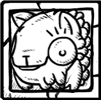
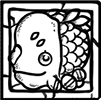
Spellbook UI

diff --git a/Project/Oquonie/Draw.m b/Project/Oquonie/Draw.m
@@ -31,11 +31,32 @@
     
 }
 
+-(void)animateSpellbook
+{
+    NSLog(@"~  DRAW | animateSpellbook");
+    
+    storyboard.interfaceContainer.frame = storyboard.view.frame;
+    storyboard.spellsContainer.frame = CGRectMake((storyboard.view.frame.size.width)/2 - (([position tile:0 :0 :0].size.width)/2), storyboard.view.frame.size.height - 100, ([position tile:0 :0 :0].size.width)/3 * 3, ([position tile:0 :0 :0].size.width)/3);
+    
+    storyboard.spellView1.frame = CGRectMake(0, 0, storyboard.spellsContainer.frame.size.width/3, storyboard.spellsContainer.frame.size.width/3);
+    storyboard.spellView2.frame = CGRectMake(storyboard.spellsContainer.frame.size.width/3, 0, storyboard.spellsContainer.frame.size.width/3, storyboard.spellsContainer.frame.size.width/3);
+    storyboard.spellView3.frame = CGRectMake((storyboard.spellsContainer.frame.size.width/3)*2, 0, storyboard.spellsContainer.frame.size.width/3, storyboard.spellsContainer.frame.size.width/3);
+    
+    if( [user spell:0] > 0 ){ storyboard.spellView1.image = [NSImage imageNamed:[NSString stringWithFormat:@"letterSpell%d",[user spell:0]]]; }
+    else{ storyboard.spellView1.image = [NSImage imageNamed:[NSString stringWithFormat:@"letterSpell0"]]; }
+    
+    if( [user spell:1] > 0 ){ storyboard.spellView2.image = [NSImage imageNamed:[NSString stringWithFormat:@"letterSpell%d",[user spell:1]]]; }
+    else{ storyboard.spellView2.image = [NSImage imageNamed:[NSString stringWithFormat:@"letterSpell0"]]; }
+    
+    if( [user spell:2] > 0 ){ storyboard.spellView3.image = [NSImage imageNamed:[NSString stringWithFormat:@"letterSpell%d",[user spell:2]]]; }
+    else{ storyboard.spellView3.image = [NSImage imageNamed:[NSString stringWithFormat:@"letterSpell0"]]; }
+}
+
 -(void)animateRoom
 {
     NSLog(@"~  DRAW | animateRoom");
-    storyboard.roomContainer.frame = storyboard.view.frame;
-    storyboard.spriteContainer.frame = storyboard.view.frame;
+    storyboard.roomContainer.frame = CGRectOffset(storyboard.view.frame, 0, -100);
+    storyboard.spriteContainer.frame = CGRectOffset(storyboard.view.frame, 0, -100);
     
     storyboard.floor00.frame = [position tile:0 :0 :0];
     storyboard.floor1e.frame = [position tile:0 :1 :-1];
@@ -116,8 +137,6 @@
             [spriteContainer addSubview:[self spriteImageView:x:y:tileCheck]];
         }
     }
-    
-    
 }
 
 -(NSImageView*)spriteImageView :(int)x :(int)y :(Tile*)tile

diff --git a/Project/Oquonie/Oquonie Desktop/ViewController.h b/Project/Oquonie/Oquonie Desktop/ViewController.h
@@ -46,6 +46,21 @@
 @property (weak) IBOutlet NSImageView *spriteShadow;
 @property (weak) IBOutlet NSImageView *spriteCharacter;
 
+@property (weak) IBOutlet NSView *interfaceContainer;
+@property (weak) IBOutlet NSView *spellsContainer;
+@property (weak) IBOutlet NSImageView *spellView1;
+@property (weak) IBOutlet NSImageView *spellView2;
+@property (weak) IBOutlet NSImageView *spellView3;
+
+@property (weak) IBOutlet NSView *dialogContainer;
+@property (weak) IBOutlet NSImageView *portraitImageView;
+@property (weak) IBOutlet NSImageView *bubbleImageView;
+@property (weak) IBOutlet NSView *bubbleContainer;
+@property (weak) IBOutlet NSImageView *letterView1;
+@property (weak) IBOutlet NSImageView *letterView2;
+@property (weak) IBOutlet NSImageView *letterView3;
+
+
 @end
 
 ViewController * storyboard;

diff --git a/Project/Oquonie/User.h b/Project/Oquonie/User.h
@@ -44,6 +44,7 @@
 -(int)spellExists :(NSString*)spellId;
 -(void)spellCollect :(NSString*)spellId :(int)spellType;
 -(int)spellCount;
+-(int)spell :(int)value;
 
 -(int)eventExists :(int)eventId;
 -(void)eventCollect :(int)eventId;

diff --git a/Project/Oquonie/User.m b/Project/Oquonie/User.m
@@ -184,6 +184,11 @@
     }
 }
 
+-(int)spell :(int)value
+{
+    return [userData[@"spellbook"][value][1] intValue];
+}
+
 -(int)eventExists :(int)eventId
 {
     if( userData[@"events"] ){

diff --git a/Project/Oquonie/Render.m b/Project/Oquonie/Render.m
@@ -37,6 +37,7 @@
     newDraw = [[Draw alloc] init];
     [newDraw animateRoom];
     [newDraw animateWalk];
+    [newDraw animateSpellbook];
 }
 
 -(void)renderWarp :(Event*)event

diff --git a/Project/Oquonie/Oquonie Desktop/ViewController.m b/Project/Oquonie/Oquonie Desktop/ViewController.m
@@ -37,6 +37,7 @@
     
     [user listening:0];
     [user setLocation:50];
+    [user spellCollect:@"nephtalineNeomine1":3];
     
     [newDraw animateRoom];
 }

diff --git a/Project/Oquonie/Draw.h b/Project/Oquonie/Draw.h
@@ -14,5 +14,6 @@
 -(void)dialog  :(NSString*)dialog :(NSString*)characterId;
 -(void)animateRoom;
 -(void)animateWalk;
+-(void)animateSpellbook;
 
 @end
